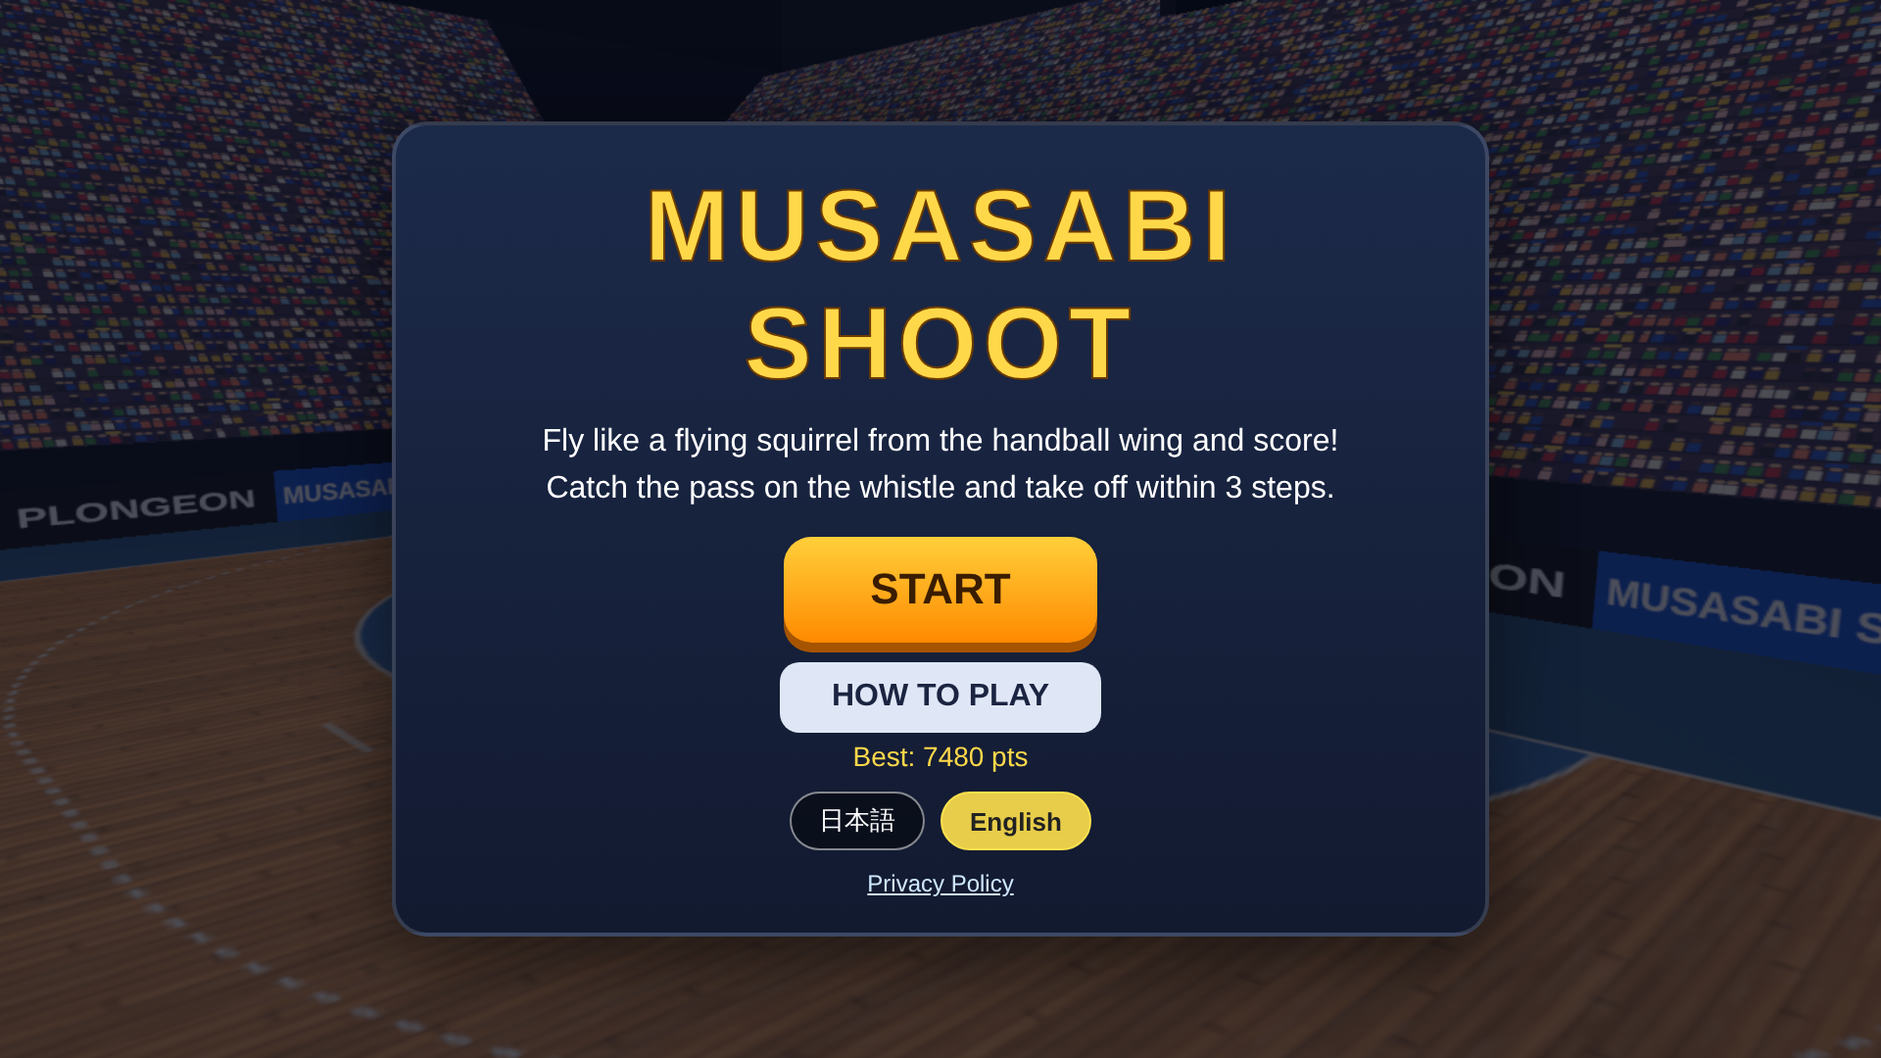
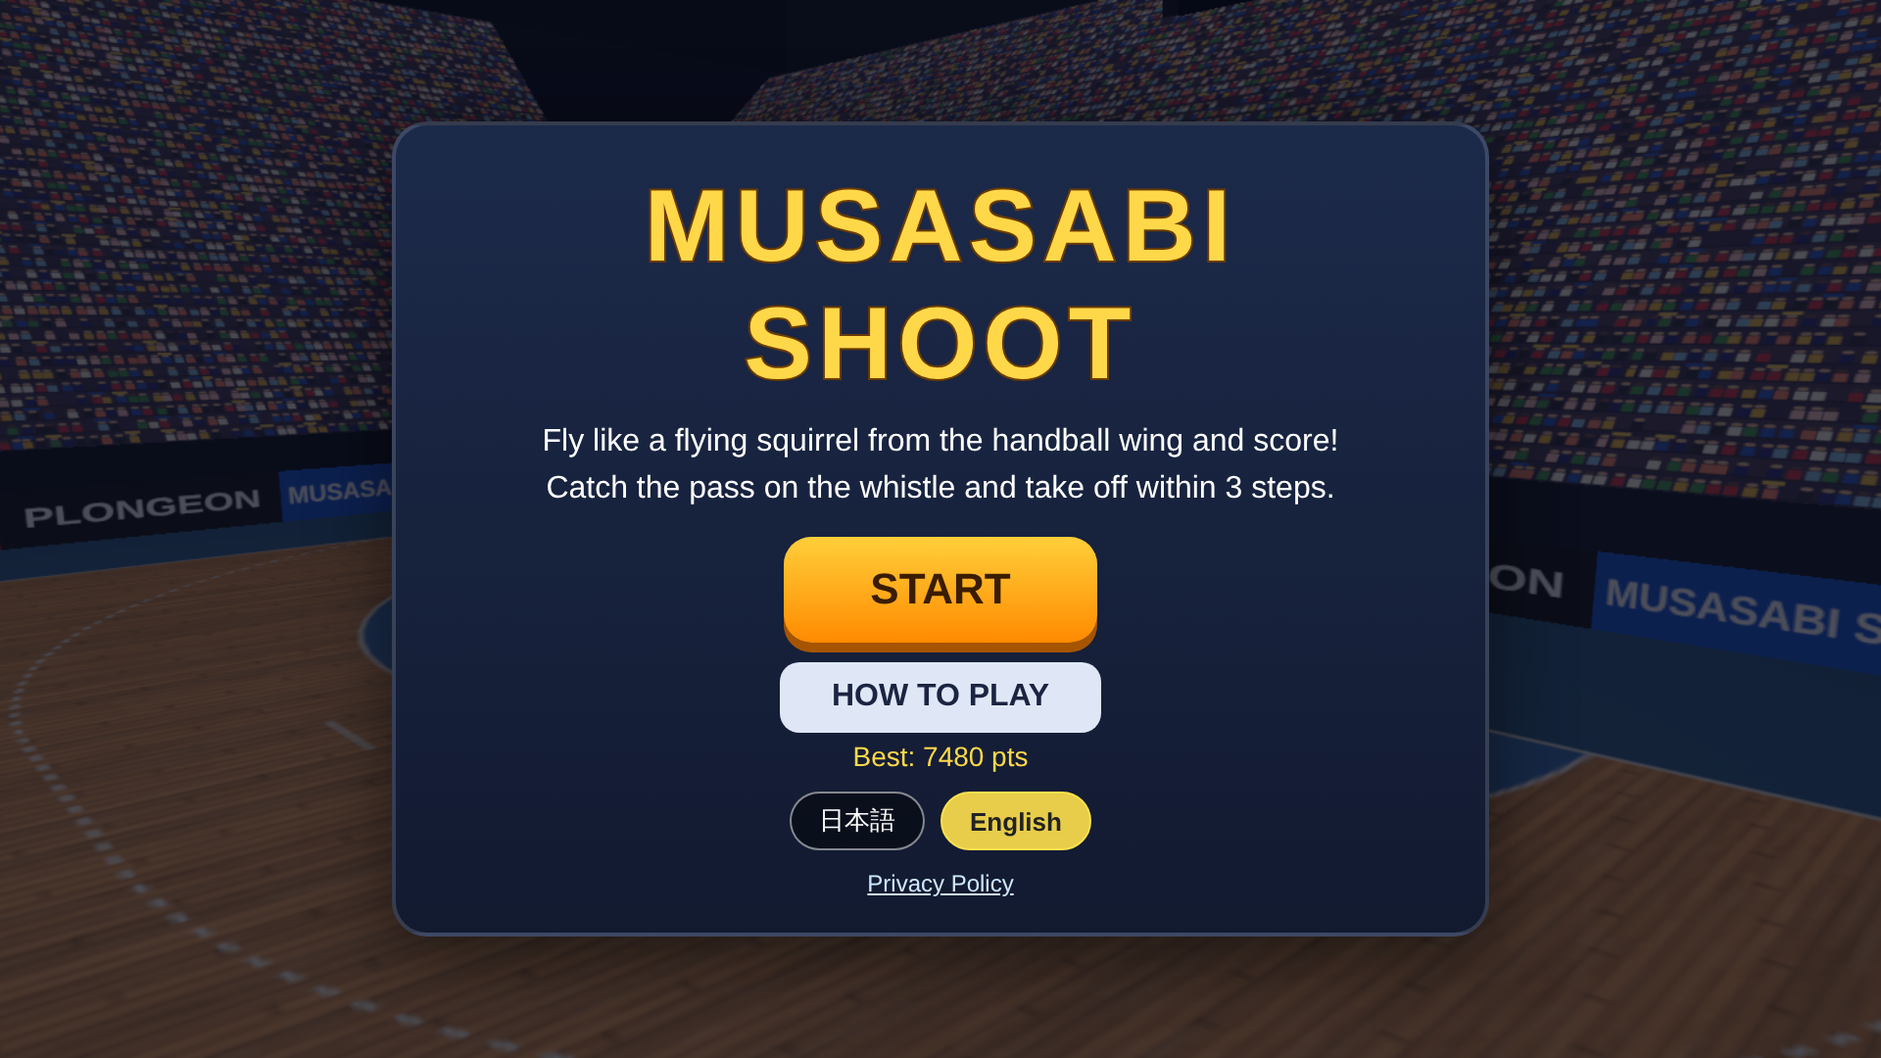
Add App Store images and the Mac guide for the iOS release
- docs/store/ios: 6.3-inch screenshots (2622x1206, ja/en x4), header
  (3840x1646) and search image (3840x2560) without UI or text
- docs/IOS_BUILD.md: browser setup, iPhone test, archive and upload,
  TestFlight and the review recording, App Store text and review notes
- Title text: draw the outline under the fill so it stays gold on phones
  (Google Play title screenshots retaken)
- README: iOS section

Claude-Session: https://claude.ai/code/session_01AdesPCXKVsyjXAodtmZ4YA

diff --git a/style.css b/style.css
@@ -85,7 +85,7 @@ html, body {
 }
 .panel h1 {
   margin: 4px 0 8px; font-size: clamp(32px, 8vw, 52px); color: #ffd84a;
-  -webkit-text-stroke: 1px #6b3b00; letter-spacing: .06em;
+  -webkit-text-stroke: 2px #6b3b00; paint-order: stroke fill; letter-spacing: .06em;
 }
 .panel h2 { margin: 4px 0; font-size: 28px; }
 .lead { margin: 4px 0 10px; font-size: 16px; line-height: 1.5; }

diff --git a/docs/IOS_BUILD.md b/docs/IOS_BUILD.md
@@ -1,0 +1,205 @@
+# iOS 版をビルドして App Store に出す手順（Mac での作業）
+
+ムササビシュートの iOS 版は、Android 版と同じ Capacitor で作っています（`ios/` フォルダ）。構成は JET STRIKE（techgymjp/jet-fighter）の iOS 版と同じです。
+コードの準備はできているので、Mac では「ビルドして App Store Connect にアップロードする」作業だけを行います。
+
+- Bundle ID：`jp.techgym.plongeonshoot`（Android と同じ）
+- チーム：Team ID `GNM3VTX9YG`（Xcode の設定に入れてあります）。Apple Developer には**個人で登録**しています（App Store の販売元は個人名になります）
+- 対応端末：iPhone（横画面固定）。iPad では iPhone 用の画面で動きます
+- 広告：AdMob（iOS 用のアプリと広告ユニット。バナー・インタースティシャル・リワード）。起動時に「トラッキングの許可」の確認画面が出ます
+
+---
+
+## 0. ブラウザでの準備（最初の1回だけ）
+
+1. **Apple Developer**（developer.apple.com）→「Certificates, Identifiers & Profiles」→「Identifiers」→「＋」→「App IDs」→「App」
+   - Description：`MUSASABI SHOOT`
+   - Bundle ID：「Explicit」で `jp.techgym.plongeonshoot`
+   - Capabilities：何もチェックしない
+2. **App Store Connect**（appstoreconnect.apple.com）→「マイ App」→「＋」→「新規 App」
+   - プラットフォーム：iOS ／ 名前：`ムササビシュート ハンドボール`（Google Play と同じ）／ プライマリ言語：日本語
+   - バンドル ID：1 で登録したもの ／ SKU：`plongeonshoot`（あとから変更不可）／ ユーザアクセス：アクセス制限なし
+3. **AdMob**
+   - 「アプリを追加」→ **iOS** →「ストアに掲載されていない」で登録し、**バナー・インタースティシャル・リワード**の広告ユニットを作る
+   - アプリ ID と広告ユニット ID 3 つを Claude Code に渡す（`ios/App/App/Info.plist` の `GADApplicationIdentifier` と `ads.js` の `UNITS.ios.production` に入れます。それまではテスト用の ID が入っていて、本番ビルドでも広告は出ません）
+   - 「プライバシーとメッセージ」→「欧州の規制」のメッセージに iOS アプリも追加する
+
+---
+
+## 1. Mac の準備（最初の1回だけ）
+
+1. **Xcode** を App Store からインストールする（数十 GB あるので時間がかかります）。インストール後に一度起動し、追加コンポーネントのインストールを済ませる
+2. Xcode の「Settings…」→「Accounts」→「＋」で、Apple Developer に登録している Apple ID でサインインする（チームが個人名で表示されれば OK）
+3. **Node.js**（LTS 版）を https://nodejs.org/ からインストールする
+4. ターミナルでリポジトリを取得する
+   ```bash
+   cd ~/Desktop   # 置きたい場所（どこでもよい）
+   git clone https://github.com/techgymjp/plongeonshoot.git
+   cd plongeonshoot
+   npm ci
+   ```
+   `git` がないと言われたら、表示に従って「コマンドライン・デベロッパツール」をインストールしてから、もう一度実行します。
+
+2回目以降は、`cd plongeonshoot` のあと `git pull` と `npm ci` で最新にします。
+
+---
+
+## 2. 自分の iPhone で動作確認する（テスト広告）
+
+```bash
+npm run ios:sync    # ゲームのファイルを iOS のプロジェクトにコピー（テスト広告）
+npm run ios:open    # Xcode で開く
+```
+
+1. iPhone を USB ケーブルで Mac につなぎ、iPhone で「このコンピュータを信頼」を許可する
+2. iPhone の「設定」→「プライバシーとセキュリティ」→「デベロッパモード」をオンにする（再起動を求められます。項目がない場合は、Xcode で一度 iPhone を選ぶと表示されます）
+3. Xcode の上部で、実行先に自分の iPhone を選ぶ
+4. 左の「App」→「Signing & Capabilities」で、「Automatically manage signing」がオン、Team に自分（個人名）のチームが選ばれていることを確認する
+5. ▶（Run）を押すと、iPhone にアプリが入って起動する
+
+確認すること：
+
+- 横画面で全画面表示になる。ホーム画面の名前が「ムササビシュート」（英語の iPhone では「Musasabi Shoot」）
+- トラッキングの確認画面が出る（日本語の iPhone では日本語）
+- 操作できる（左のジャンプ／ダッシュ・方向リング、右のシュートボタン）、ホイッスル・歓声などの音が鳴る
+- タイトル・遊び方・ポーズ・結果画面の下に**テスト広告**のバナー、スタート・もう一度・タイトルへ・ポーズからの再開で**テスト広告**の全画面広告が出る
+- 決まらなかった1本のあとに「広告を見てやり直す」が出て、見終わると同じ1本をやり直せる
+- 結果画面のシェアで iOS の共有シートが開く
+- ホームに戻って開き直すと一時停止している
+
+---
+
+## 3. App Store 用にビルドしてアップロードする（本番広告）
+
+```bash
+git pull && npm ci
+npm run ios:release   # 本番の広告 ID でコピーする（ここが ios:sync と違う）
+npm run ios:open
+```
+
+1. Xcode の左で「App」→「General」→「Identity」を開き、**Build の番号を前回より大きくする**（初回は 1。アップロードのたびに 2、3…と上げる。同じ番号は二度アップロードできない）。Version は 1.0.0（`package.json` の version と同じ）
+2. 上部の実行先を「**Any iOS Device (arm64)**」にする
+3. メニューの「Product」→「**Archive**」（メニューバーは画面の最上部。全画面表示だと隠れるので、マウスを上端に動かす）
+4. 終わると Organizer が開くので、「**Distribute App**」→「**App Store Connect**」→「Upload」で進める（途中の確認は既定のまま「Next」でよい。「Xcode Cloud can automate…」は「Remind Me Later」で閉じる）
+5. 10〜30 分ほどで、App Store Connect の「TestFlight」タブにビルドが表示される
+
+輸出コンプライアンス（暗号化）の質問は、Info.plist で「独自の暗号化は使っていない」と設定済みなので、聞かれません。
+
+**注意**：`ios:release` でビルドしたアプリは本番の広告が出ます。TestFlight で確認するときも、**本番の広告はタップしない**でください（AdMob のアカウント停止の対象）。Xcode から iPhone に直接入れて試すときは、`npm run ios:sync` でテスト広告に戻してから実行します。
+
+---
+
+## 4. TestFlight で確認し、審査用の録画を作る
+
+1. App Store Connect の「TestFlight」→「内部テスト」でグループを作り、自分を追加する
+2. iPhone に「TestFlight」アプリを App Store から入れ、届いた招待からムササビシュートをインストールする
+3. **審査用の画面録画を撮る**（新しいアカウントの初回審査では、実機での操作の録画を求められます。先に用意して、申請時に「メモ」と一緒に出すと早い）
+   - iPhone の「設定」→「コントロールセンター」に「画面収録」を追加する
+   - **アプリを起動するところから**録画する：起動 → 広告の同意・トラッキングの確認 → タイトル → 遊び方 → スタート → 数本プレイ（ダッシュ・ムササビ・シュート）→ ポーズ → 結果画面 → シェア
+   - 1〜2 分で十分。本番広告が出ても**タップしない**
+   - 大きすぎると返信に添付できないので、Mac の Finder で右クリック →「選択したビデオファイルをエンコード」→ 720p にするか、Google ドライブの共有リンクにする
+
+---
+
+## 5. App Store Connect で審査に出す
+
+「配信」タブ（iOS App のバージョン 1.0.0）で入力します。バージョンが「1.0」になっていたら 1.0.0 に直して保存してください（そうしないとビルドが選べません）。
+
+| 項目 | 入力内容 |
+| --- | --- |
+| スクリーンショット | 「Dynamic Island 搭載 iPhone（中型ディスプレイ）」の欄に、`docs/store/ios/6.3inch/` の 2622 × 1206（横向き）を入れる。日本語版（ja-）と英語版（en-）各 4 枚。6.9 インチ（2868 × 1320）は受け付けられない |
+| ヘッダ・検索結果 | 「ヘッダと検索結果」タブに `docs/store/ios/appstore-header-3840x1646.png` と `appstore-search-3840x2560.png`（ヘッダを入れたら検索結果も入れる） |
+| サブタイトル・プロモーション用テキスト・キーワード | 下の「App Store 用の文章」 |
+| 概要 | Google Play 用の詳しい説明（`docs/store/listing.md`、英語は `docs/store/listing-en.txt`）を流用 |
+| サポート URL | https://techgym.jp/ |
+| プライバシーポリシー URL（App 情報・App のプライバシー） | https://techgym.jp/privacy-policy/ |
+| 著作権 | 2026 TECH GYM K.K. |
+| カテゴリ（App 情報） | ゲーム（サブカテゴリ：スポーツ） |
+| コンテンツの配信権（App 情報） | 第三者のコンテンツ：いいえ（絵・音はすべて自作。three.js は MIT License のライブラリ） |
+| ビルド | TestFlight で確認したビルドを選ぶ |
+| 年齢制限 | 質問に答える（暴力・流血・ギャンブルなどの表現なし。ハンドボールのスポーツゲーム） |
+| App のプライバシー | AdMob が収集するデータを申告する（下記） |
+| App Review に関する情報 | サインイン不要。連絡先を入力。メモに下の「審査メモ」を入れ、4 章の録画を添付するかリンクを書く |
+
+**App のプライバシー（AdMob を使うアプリの目安）**
+Google の「Apple の App Store のデータ開示要件への準備」（AdMob のヘルプ）に、AdMob が収集するデータの一覧があります。必ずそちらを見て最終確認してください。目安は次のとおりです。
+
+- 収集する：ID（デバイス ID）、使用状況データ（広告データ、製品の操作）、診断（クラッシュデータ、パフォーマンスデータ、その他の診断データ）、位置情報（おおよその場所）
+- 目的：サードパーティ広告、アナリティクス
+- ユーザーに関連付け：しない
+- トラッキングに使用：デバイス ID と広告データは「する」
+
+入力が終わったら「審査用に追加」→「審査へ提出」。
+
+### App Store 用の文章
+
+**サブタイトル**（30 文字以内）
+- 日本語：`跳んで倒れ込んで決めるハンドボール`
+- 英語：`Dive in and beat the keeper`
+
+**プロモーション用テキスト**（170 文字以内）
+- 日本語：`ホイッスルでパスを受けて、3歩以内にサイドから跳び込め！空中で倒れ込むムササビシュートで、7タイプのキーパーを打ち抜こう。全20本で何点取れるか挑戦。`
+- 英語：`Catch the pass on the whistle and take off from the wing within 3 steps. Lean in the air with the musasabi shot and beat 7 types of keeper. 20 shots per game.`
+
+**キーワード**（100 文字以内、カンマ区切り。アプリ名に入っている語は入れなくてよい）
+- 日本語：`ハンドボール,シュート,スポーツ,ジャンプ,キーパー,ゴール,サイド,プロンジョン,球技,3D,無料,ゲーム`
+- 英語：`handball,sports,shoot,jump,goalkeeper,goal,wing,plongeon,flying squirrel,ball,3d,free`
+
+### 審査メモ（App Review への「メモ」。英語で書く）
+
+```
+Musasabi Shoot is a free 3D handball game for all ages. The player catches a pass, takes off from the wing within three steps and shoots past the goalkeeper. One game is 20 shots.
+
+- No sign-in or account is needed. All features are available right after launch.
+- Ads: Google AdMob (banner on menu screens, interstitial between games, and an optional rewarded ad to retake a missed shot). On first launch the app shows Google's consent message where required, then the App Tracking Transparency prompt. Ads are still shown if tracking is declined.
+- Other services: the system share sheet for sharing the score. No other external services, no in-app purchases, no user-generated content.
+- The app works the same in all regions. It is in Japanese and English.
+- No regulated industry. All graphics and sounds were made for this game; the 3D library three.js is used under the MIT License.
+- A screen recording on an iPhone, from launch through gameplay, is attached (or: <link>).
+```
+
+---
+
+## 6. 公開後にやること
+
+- AdMob で iOS アプリを App Store のアプリに紐づける（「アプリ」→ iOS のムササビシュート →「アプリの設定」）
+- App Store からインストールして、起動・同意画面・トラッキングの確認・広告を確認する
+
+---
+
+## 7. 自動化の準備（2回目以降を GitHub Actions に任せる場合）
+
+JET STRIKE と同じく、push するだけで GitHub Actions（GitHub の Mac 環境）がビルドし、TestFlight にアップロードできるようにできます。
+証明書と API キーの作り方は JET STRIKE の `docs/IOS_BUILD.md` の 7 章と同じです（Apple Developer のチーム共通なので、JET STRIKE 用に作った .p12・.p8 とパスワードを使い回せます）。
+
+このリポジトリの Settings → Secrets and variables → Actions（https://github.com/techgymjp/plongeonshoot/settings/secrets/actions）に、次の 5 つを登録します。
+
+| 名前 | 内容 |
+| --- | --- |
+| `IOS_DIST_CERT_P12_BASE64` | 証明書（.p12）を変換した文字列 |
+| `IOS_DIST_CERT_PASSWORD` | .p12 を書き出したときのパスワード |
+| `ASC_KEY_ID` | API キーのキー ID |
+| `ASC_ISSUER_ID` | Issuer ID |
+| `ASC_KEY_P8_BASE64` | API キー（.p8）を変換した文字列 |
+
+登録が終わったら、Claude Code に「iOS の自動アップロードのワークフローを作って」と頼みます。
+
+**注意**：証明書（.p12）、そのパスワード、API キー（.p8）は、チャット（Claude Code を含む）・AI へのアップロード・リポジトリへのコミットで**絶対に共有しない**でください。
+
+---
+
+## つまずきやすいところ
+
+| 症状 | 対処 |
+| --- | --- |
+| アップロードで「同じビルド番号がすでにある」 | General の Build の番号を上げてから Archive し直す |
+| Signing でエラー（チームが選べない、証明書がない） | Xcode の Accounts で Apple ID にサインインし直し、Team を選ぶ。「Automatically manage signing」をオンにする |
+| 実行先に iPhone が出ない | ケーブルをつなぎ直し、iPhone で「信頼」を許可。デベロッパモードをオンにする |
+| 実行先に「iOS 26.x Not Installed」と出る | 「Get」で iOS のシミュレーターと部品をダウンロードする（8 GB ほど。Archive にも必要） |
+| ビルドが古いゲームのまま | `npm run ios:sync`（または `ios:release`）を実行し忘れている。`git pull` してから実行し直す |
+| 広告が出ない（本番ビルド） | AdMob の iOS 用 ID がまだ入っていない（`ads.js` の `UNITS.ios.production` が空）。ID を Claude Code に渡す |
+| ビルドを選ぼうとしても、アップロードしたビルドが出てこない | バージョンのページの「バージョン」が 1.0 のまま。1.0.0 に直して保存する |
+| 「審査用に追加できません」 | 「コンテンツの配信権」と「アプリのプライバシー」のプライバシーポリシー URL を入力したか確かめる |
+| 初回の審査で「Guideline 2.1 - Information Needed」 | 審査メモ（5 章）と 4 章の録画を App Review への返信で送り、同じ文をバージョンのページの「メモ」にも入れる |
+| 返信に動画を添付すると「エラーが発生しました」 | 動画が大きすぎる。720p にエンコードするか、Google ドライブの共有リンクを貼る |
+| App Store の審査で「Xcode が古い」と言われる | Xcode を最新版に更新してから Archive し直す |

diff --git a/README.md b/README.md
@@ -196,6 +196,21 @@ AdMob のアプリ ID は `android/app/src/main/res/values/strings.xml` の `adm
 手元で試すとき: `npm install` → `npm run android:sync` → `npm run android:open`（Android Studio が必要）。
 アイコンと起動画面は `assets/` の元画像から `npx @capacitor/assets generate --android` で生成しています。
 
+## iOS アプリ
+
+Android 版と同じ Capacitor のプロジェクトに `ios/` を足して作っています。構成は techgymjp/jet-fighter（JET STRIKE）の iOS 版と同じです。
+Mac での作業手順（ビルド・アップロード・審査）は [`docs/IOS_BUILD.md`](docs/IOS_BUILD.md) にあります。
+
+- Bundle ID: `jp.techgym.plongeonshoot`（Android のパッケージ名と同じ）
+- iPhone 専用（iPad では iPhone 用の画面で動く）・横画面固定・全画面・プレイ中は画面を消さない
+- 広告は Android と同じ出し方。AdMob では iOS を別のアプリとして登録するので、広告ユニットは `ads.js` の `UNITS.ios` に分けてある
+- 起動時、広告の同意確認のあとに「トラッキングの許可」（App Tracking Transparency）の確認を出す（日英）
+- シェアは iOS の共有シート
+
+AdMob の iOS 用アプリ ID は `ios/App/App/Info.plist` の `GADApplicationIdentifier` にあります（本番の ID を入れるまでは Google のテスト用 ID）。
+`.github/workflows/ios.yml` が、push のたびに Mac の環境で署名なしのビルドが通るかを確かめます。
+App Store 用の画像は `docs/store/ios/` にあります。
+
 ## ファイル
 
 | ファイル | 内容 |
@@ -205,10 +220,11 @@ AdMob のアプリ ID は `android/app/src/main/res/values/strings.xml` の `adm
 | `style.css` | 見た目 |
 | `game.js` | ゲームの進行・選手とキーパーの動き・パス・ボールの物理・入力・2Dの表示（方角リング・ボタン）・音・シェア |
 | `scene3d.js` | 3D 描画（室内競技場・ゴールとネット・選手・ボール・紙吹雪・カメラ） |
-| `ads.js` | 広告（Android アプリのときだけ動く） |
+| `ads.js` | 広告（Android / iOS アプリのときだけ動く） |
 | `vendor/three.min.js` | three.js（MIT License） |
 | `android/` | Android アプリのプロジェクト（Capacitor） |
-| `scripts/build-web.js` | Android アプリに同梱する Web ファイルを `www/` にまとめる |
+| `ios/` | iOS アプリのプロジェクト（Capacitor。Mac の Xcode で開く） |
+| `scripts/build-web.js` | アプリに同梱する Web ファイルを `www/` にまとめる |
 | `assets/` | アイコンと起動画面の元画像 |
 
 テスト用に `window.MS`（`update(dt)`、`pressJump()`、`doShoot(type)`、`input` など）を公開しています。
